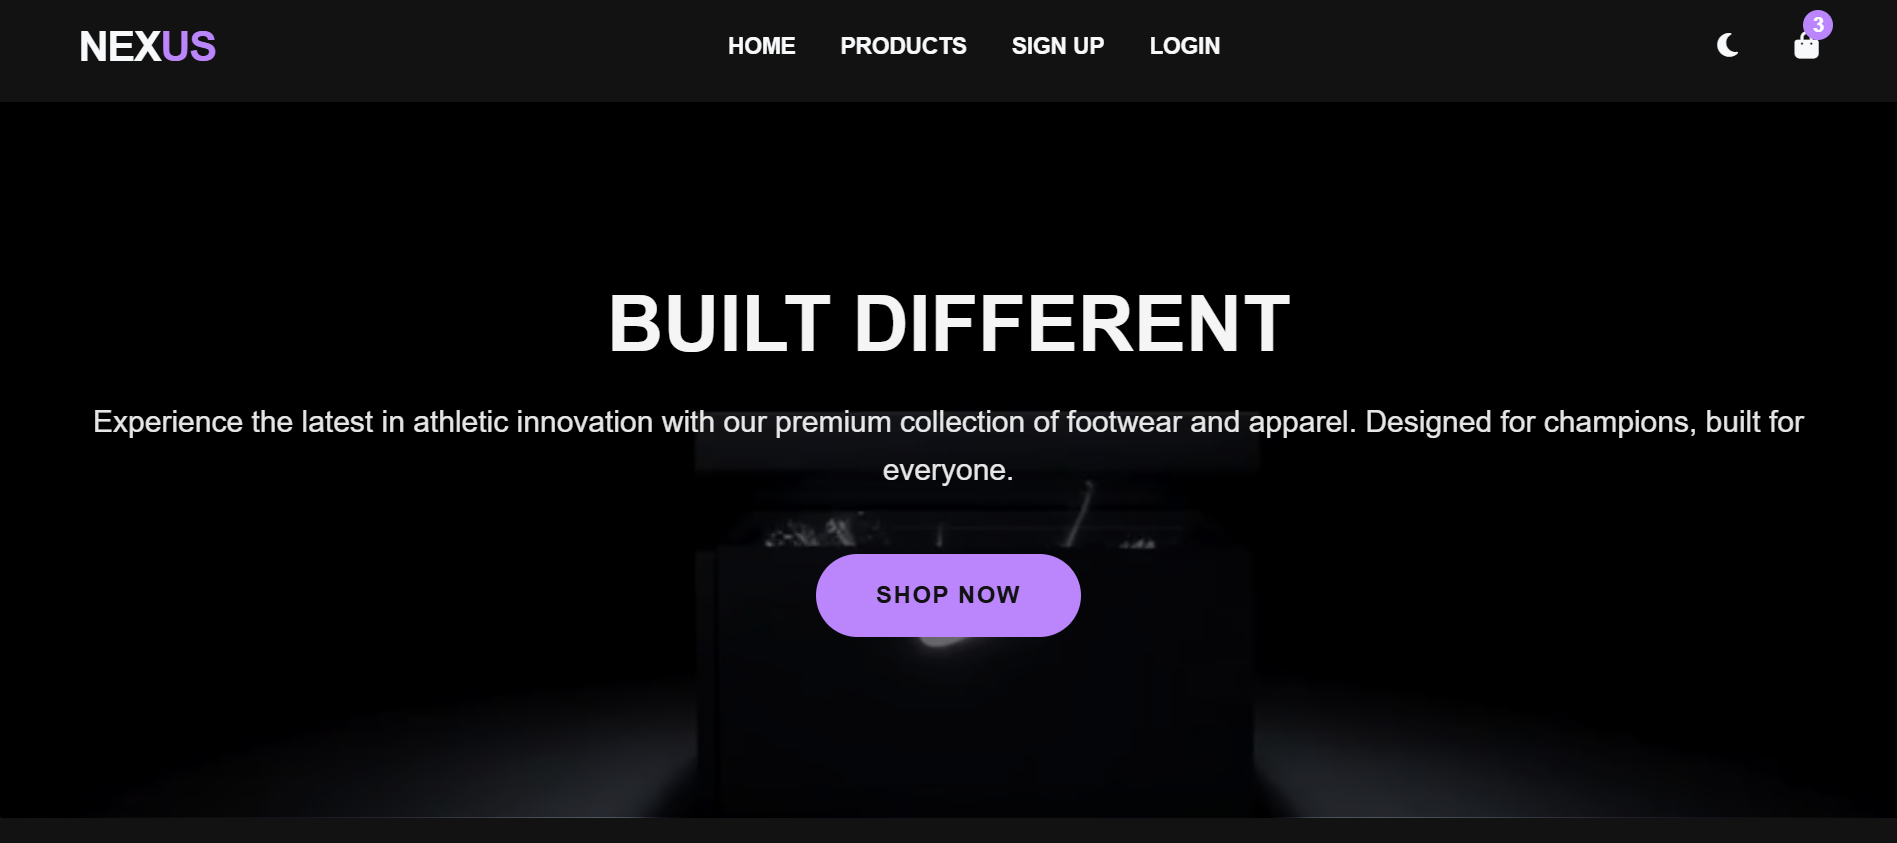
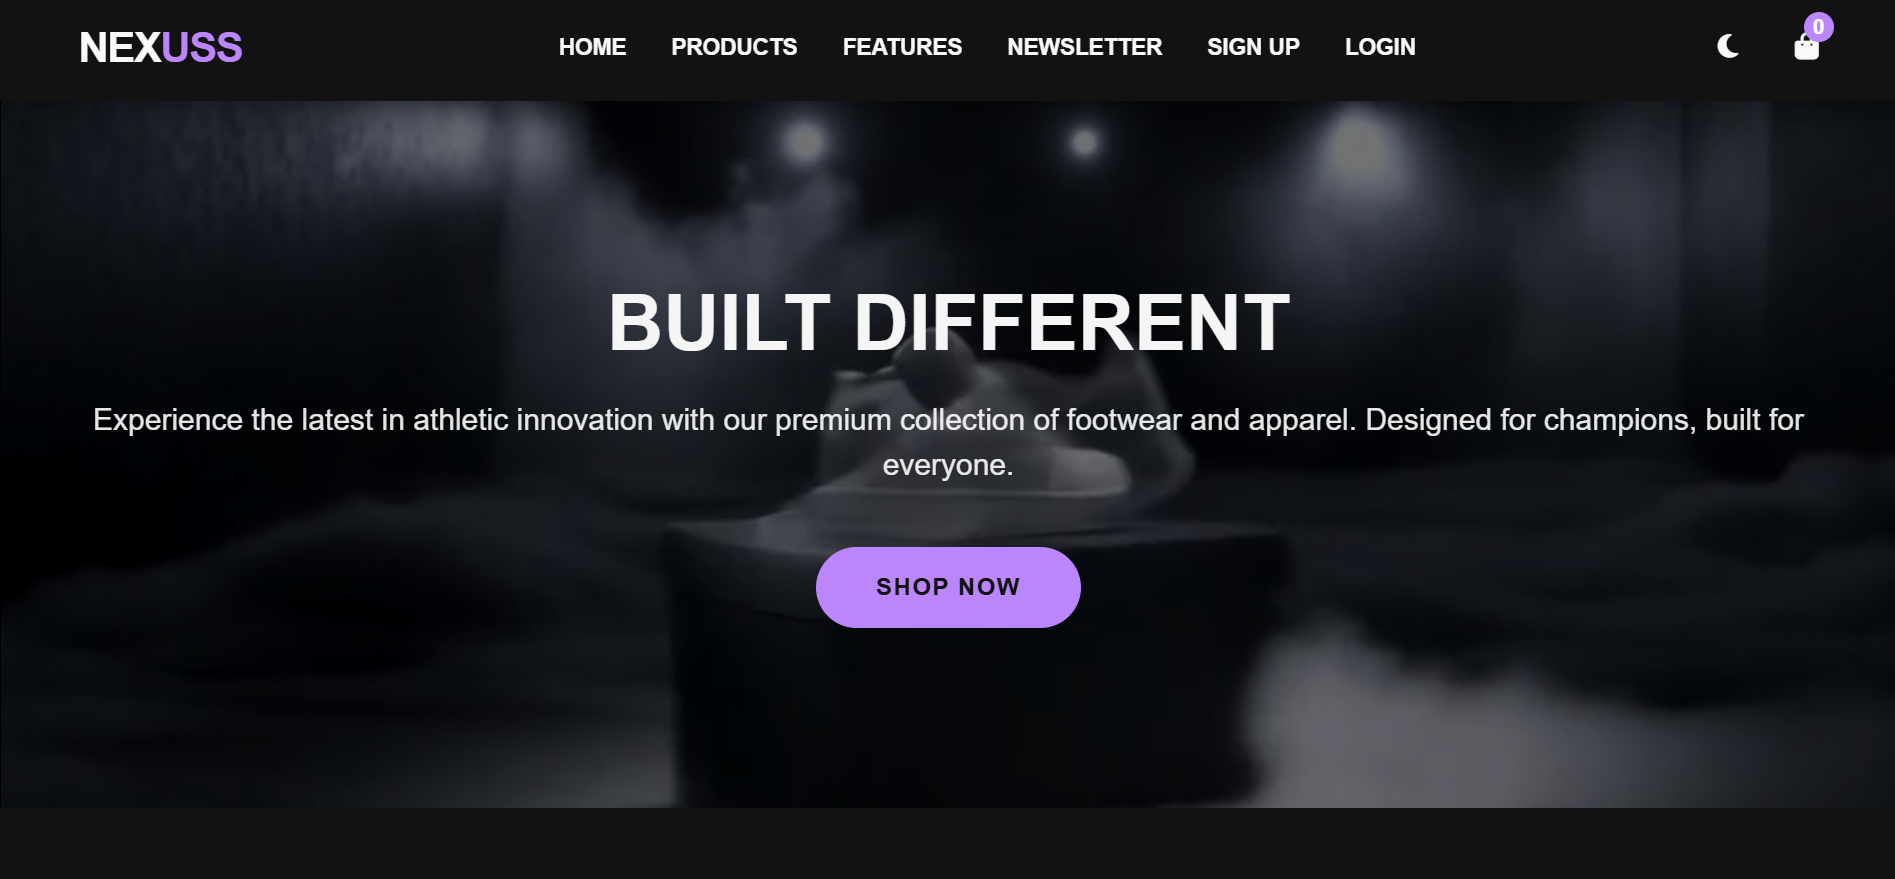
ww

diff --git a/index.html b/index.html
@@ -523,7 +523,7 @@
                 reports etc.
               </p>
               <div class="project-tech">
-                <span>HTML</span>
+                <span>Stripe</span>
                 <span>CSS</span>
                 <span>JavaScript</span>
                 <span>Node.js</span>
@@ -535,21 +535,18 @@
           <!-- Project 2 -->
           <div class="project-card" data-category="fullstack">
             <div class="project-img">
-              <img
-                src="https://encrypted-tbn0.gstatic.com/images?q=tbn:ANd9GcSg4SOlGkXMzEaFAvqjSQM1Kq-vJFLYKl-Rvw&s"
-                alt="E-commerce Website"
-              />
+              <img src="oj.PNG" alt="E-commerce Website" />
               <div class="project-overlay">
                 <div class="project-links">
                   <a
-                    href="https://www.nexuss.cc"
+                    href="https://blacksheep-mu.vercel.app/"
                     target="_blank"
                     class="project-link"
                   >
                     <i class="fas fa-external-link-alt"></i>
                   </a>
                   <a
-                    href="https://github.com/mrgovernment-max/e-commerce-portfolio"
+                    href="https://github.com/mrgovernment-max/trey"
                     target="_blank"
                     class="project-link"
                   >
@@ -563,16 +560,15 @@
                 <span class="project-category">Full Stack</span>
                 <span class="project-year">2024</span>
               </div>
-              <h3>Nexuss</h3>
+              <h3>OJ || studios</h3>
               <p>
-                A fully responsive e-commerce website with product filtering,
-                cart functionality, and secure checkout.
+                A fully responsive e-commerce website for OJ || studios brand.
               </p>
               <div class="project-tech">
                 <span>HTML</span>
-                <span>CSS</span>
-                <span>JavaScript</span>
                 <span>Node.js</span>
+                <span>Authentication</span>
+                <span>Paystack</span>
                 <span>MySQL</span>
               </div>
             </div>
@@ -622,6 +618,48 @@
               </div>
               <div class="project-note">
                 <i class="fas fa-info-circle"></i> Demonstration platform only
+              </div>
+            </div>
+          </div>
+          <!--Project 4-->
+          <div class="project-card" data-category="fullstack">
+            <div class="project-img">
+              <img src="nexus.PNG" alt="Neuss" />
+              <div class="project-overlay">
+                <div class="project-links">
+                  <a
+                    href="https://nexuss.cc/"
+                    target="_blank"
+                    class="project-link"
+                  >
+                    <i class="fas fa-external-link-alt"></i>
+                  </a>
+                  <a
+                    href="https://github.com/mrgovernment-max/Nexus"
+                    target="_blank"
+                    class="project-link"
+                  >
+                    <i class="fab fa-github"></i>
+                  </a>
+                </div>
+              </div>
+            </div>
+            <div class="project-content">
+              <div class="project-meta">
+                <span class="project-category">Full Stack</span>
+                <span class="project-year">2024</span>
+              </div>
+              <h3>Nexuss</h3>
+              <p>
+                An e-commerce website built for Demonstration,Poses real life
+                e-commerce site functionalities
+              </p>
+              <div class="project-tech">
+                <span>Html</span>
+                <span>CSS</span>
+                <span>JavaScript</span>
+                <span>Node.js</span>
+                <span>MySQL</span>
               </div>
             </div>
           </div>